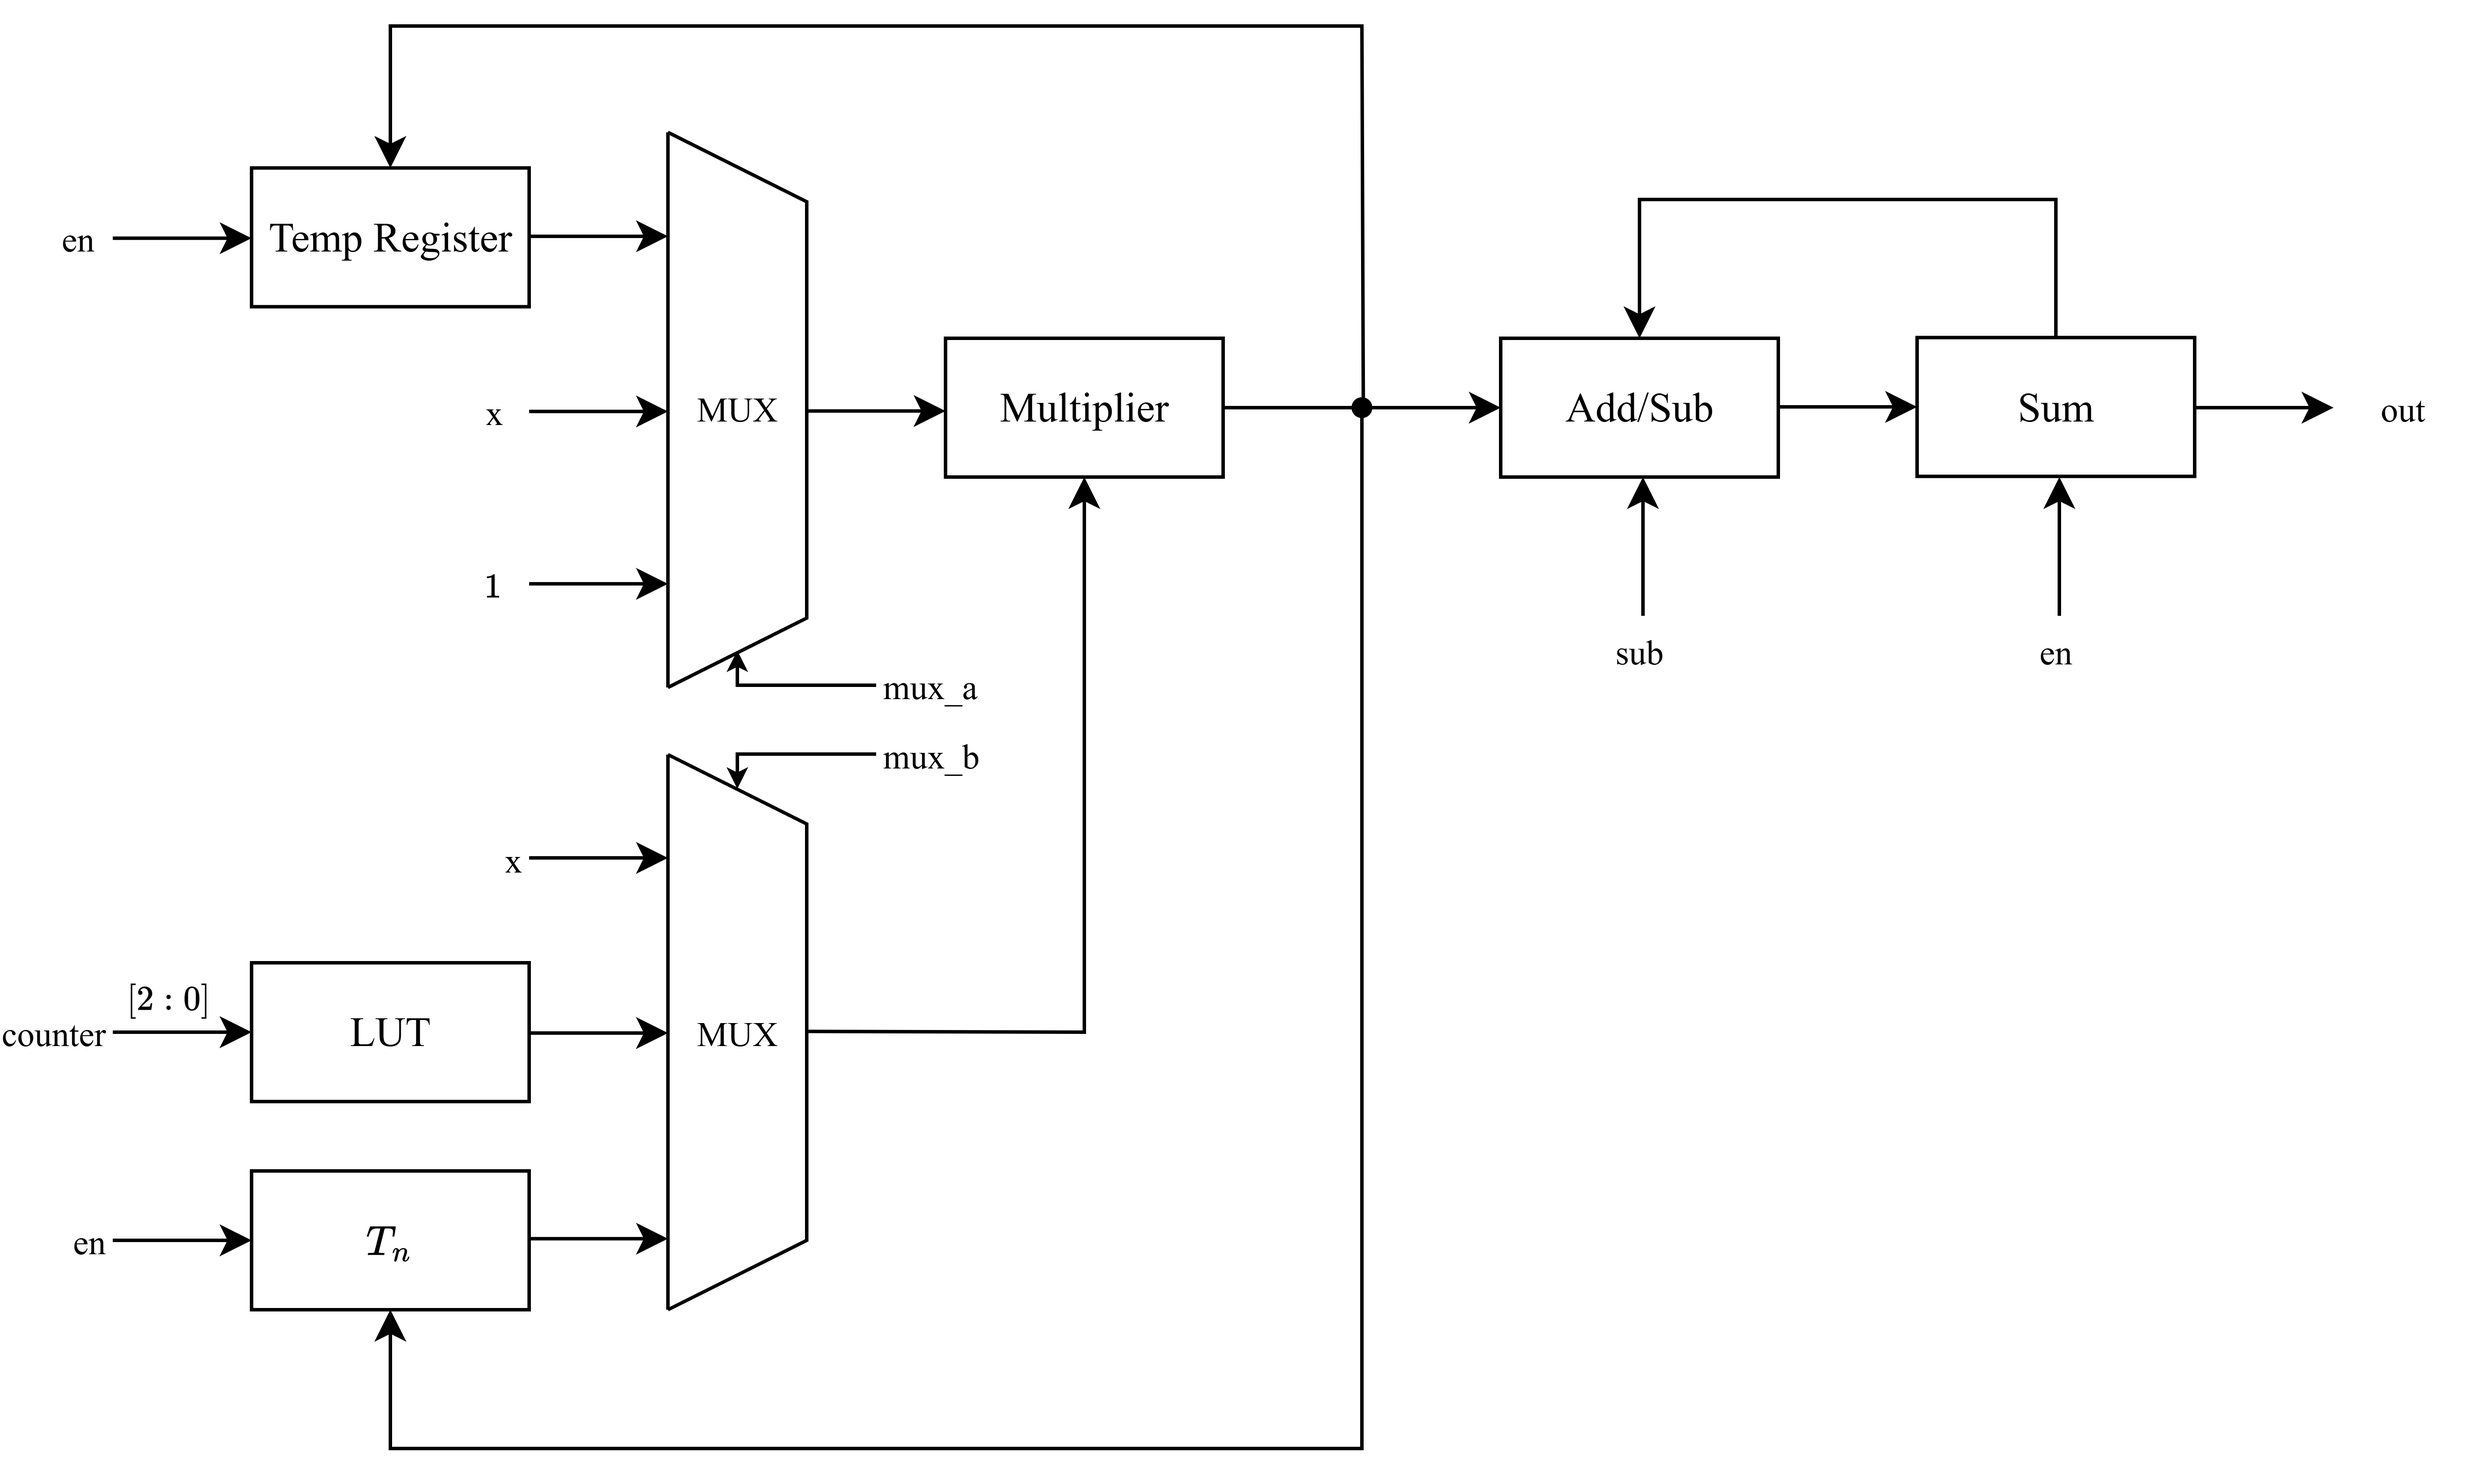
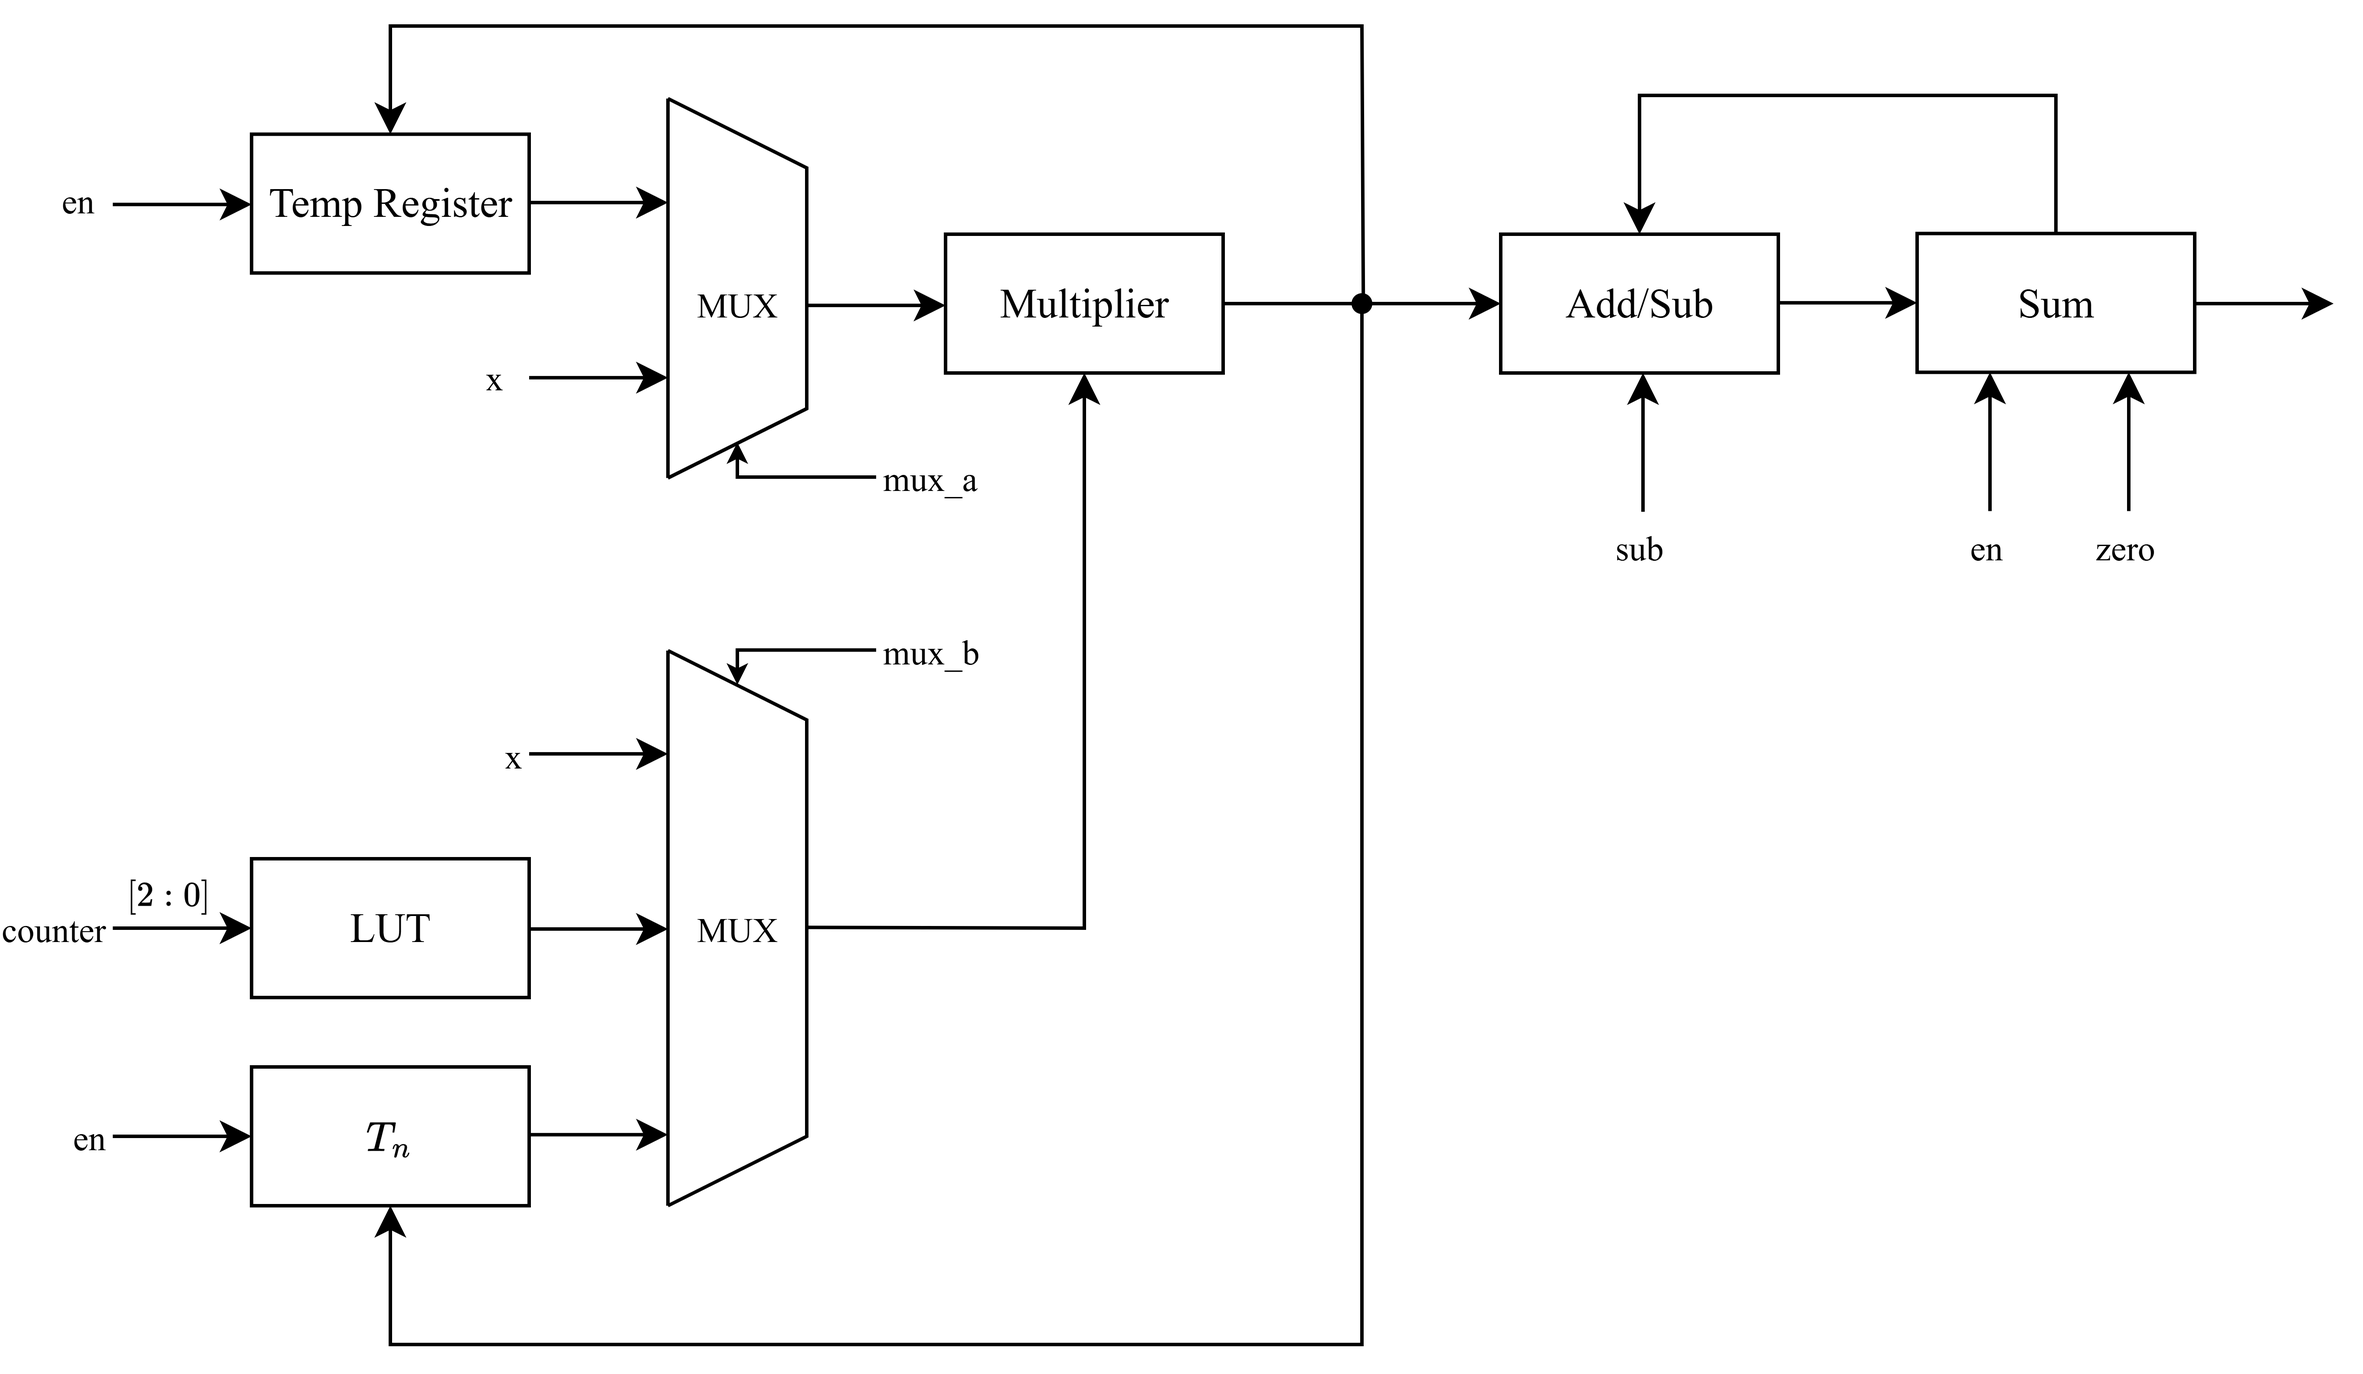
finish q5

diff --git a/homework_3/report/sections/02_chapter.tex b/homework_3/report/sections/02_chapter.tex
@@ -581,9 +581,10 @@ $$
 
 The final recurrence relation is found by multiplying $T_n$:
 
-$$
-T_{n + 1} = - T_n \frac{x^2}{(2n + 2)(2n + 3)}
-$$
+\begin{equation}
+    T_{n + 1} = - T_n \frac{x^2}{(2n + 2)(2n + 3)}
+\end{equation} \label{eq:taylor}
+
 
 We now have an expression that is significantly easier to implement in hardware. To further improve performance the fraction is pre-calculated and stored in a Look-Up Table (LUT). The calculations and necessary quantization is done with the following Python script:
 
@@ -614,13 +615,89 @@ for v in val:
 0.0047619048 -> 0x009C
 \end{textcode}
 
-\newpage
+Calculating the Taylor series using Eq. \ref{eq:taylor} in hardware is still intensive due to the heavy amount of multiplication. To create an efficient implementation we will use only one multiplier and build the product over three clock cycles:
 
-\begin{figure}[h]
+\begin{table}[h]
+    \centering
+    \renewcommand{\arraystretch}{1.5}
+    \begin{tabular}{l l}
+        Cycle 0: & $(T_n)$ \\
+        Cycle 1: & $(T_n) (x^2)$ \\
+        Cycle 2: & $(T_n) (x^2) \left(\frac{1}{(2n + 2)(2n + 3)}\right)$
+    \end{tabular}
+\end{table}
+
+Each of the completed terms is then added to the previous and kept in a sum register. A counter in the controller keeps track of which term we are currently computing and switches the sign on every other term. The datapath of the accelerator is shown in \cref{fig:q5_dp}. The controller is implemented with 6 states. The transitions are shown in \cref{fig:q5_cont}. The states \lstinline{CALC_0}, \lstinline{CALC_1}, \lstinline{CALC_2} are responsible for calculating each term. In \lstinline{CALC_2} the internal 3-bit counter is incremented. When the counter has reached it's maximum value we have succesfully computed and summed the first 8 terms of the Taylor series. The control signals asserted in each state is shown in \cref{tab:fsm_control_signals}. The done signal is simply asserted in the \lstinline{DONE} state. The \lstinline{counter} signal is directy taken from the controller and the \lstinline{sub} signal is connected to \lstinline{counter[0]}, thereby switching after each term. An important thing to note about the design is that it is \textit{necessary} to bit-extend from the input format of Q1.15 to Q2.15 in the datapath. This is required since for high values of $x$ we can produce products above the maximum representable value of 2 in Q1.15 format.
+
+\begin{table}[h]
+    \centering
+    \caption{Control signals for each state of the FSM}
+    \vspace{-10pt}
+    \begin{tabularx}{\textwidth}{|l|X|X|X|}
+        \hline
+        \textbf{State} & \textbf{en\_temp\_reg} & \textbf{en\_term\_reg} & \textbf{en\_sum\_reg} \\
+        \hline
+        RESET   & 0 & 0 & 0 \\
+        INIT    & 0 & 1 & 1 \\
+        CALC\_0 & 1 & 0 & 0 \\
+        CALC\_1 & 1 & 0 & 0 \\
+        CALC\_2 & 0 & 1 & 1 \\
+        DONE    & 0 & 0 & 0 \\
+        \hline
+    \end{tabularx}
+
+    \vspace{1.0em}
+
+    \begin{tabularx}{\textwidth}{|l|X|X|X|}
+        \hline
+        \textbf{State} & \textbf{zero\_sym} & \textbf{mux\_a} & \textbf{mux\_b} \\
+        \hline
+        RESET   & 0 & 0 (x)         & 00 (x)            \\
+        INIT    & 1 & 0 (x)         & 01 (lut)          \\
+        CALC\_0 & 0 & 0 (x)         & 00 (x)            \\
+        CALC\_1 & 0 & 1 (temp\_reg) & 10 (term\_reg)    \\
+        CALC\_2 & 0 & 1 (temp\_reg) & 01 (lut)          \\
+        DONE    & 0 & 0 (x)         & 00 (x)            \\
+        \hline
+    \end{tabularx}
+    \label{tab:fsm_control_signals}
+\end{table}
+
+\begin{figure}[H]
     \centering
     \includegraphics[width=\linewidth]{assets/q5_dp.png}
     \caption{Datapath of $\sin x$ accelerator.}
     \label{fig:q5_dp}
+\end{figure}
+
+\newpage
+
+A testbench was created that first tests some specified angles and compares them with software results. After that it computed 100 evenly spaces values in the interval $[0, \pi/2]$, inputs them to the hardware, and stores the results in a csv file. The output from the testbench and a plot of the csv values compared with true software results are shown below.
+
+\begin{figure}[h]
+    \centering
+    \includegraphics[width=\linewidth]{assets/q5_cont.png}
+    \caption{Controller state transitions of $\sin x$ accelerator.}
+    \label{fig:q5_cont}
+\end{figure}
+
+\begin{textcode}{sin x accelerator - testbench output}
+Test     Angle (rad)  Input (hex)  HW Result    SW Result    Error     
+------------------------------------------------------------------------
+1        0.000000     0x0          0.000000     0.000000     0.000000  
+2        0.100000     0xCCC        0.099823     0.099833     0.000010  
+3        0.500000     0x4000       0.479431     0.479426     0.000006  
+4        1.000000     0x8000       0.841461     0.841471     0.000010  
+5        1.570000     0xC8F5       0.999985     1.000000     0.000015  
+6        0.523599     0x4305       0.500000     0.500000     0.000000  
+7        0.785398     0x6487       0.707092     0.707107     0.000014  
+8        1.047198     0x860A       0.866058     0.866025     0.000033  
+\end{textcode}
+
+\begin{figure}[H]
+    \centering
+    \includegraphics[width=0.65\textwidth]{assets/q5_sin.pdf}
+    \caption{Comparison of hardware results with software.}
 \end{figure}
 
 \end{document}
